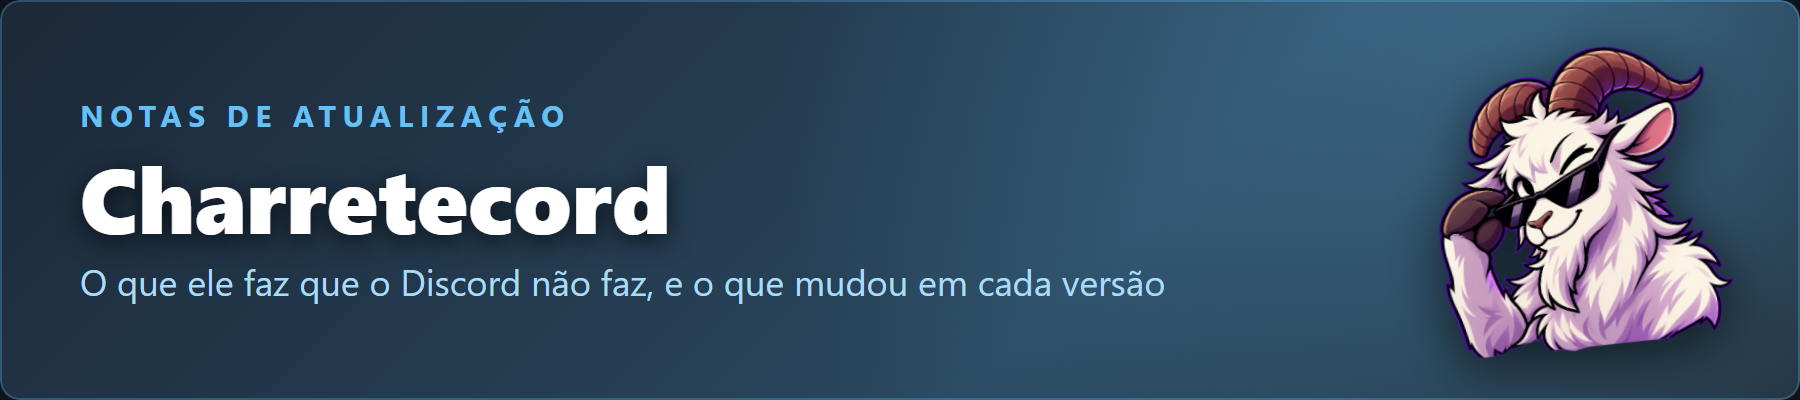
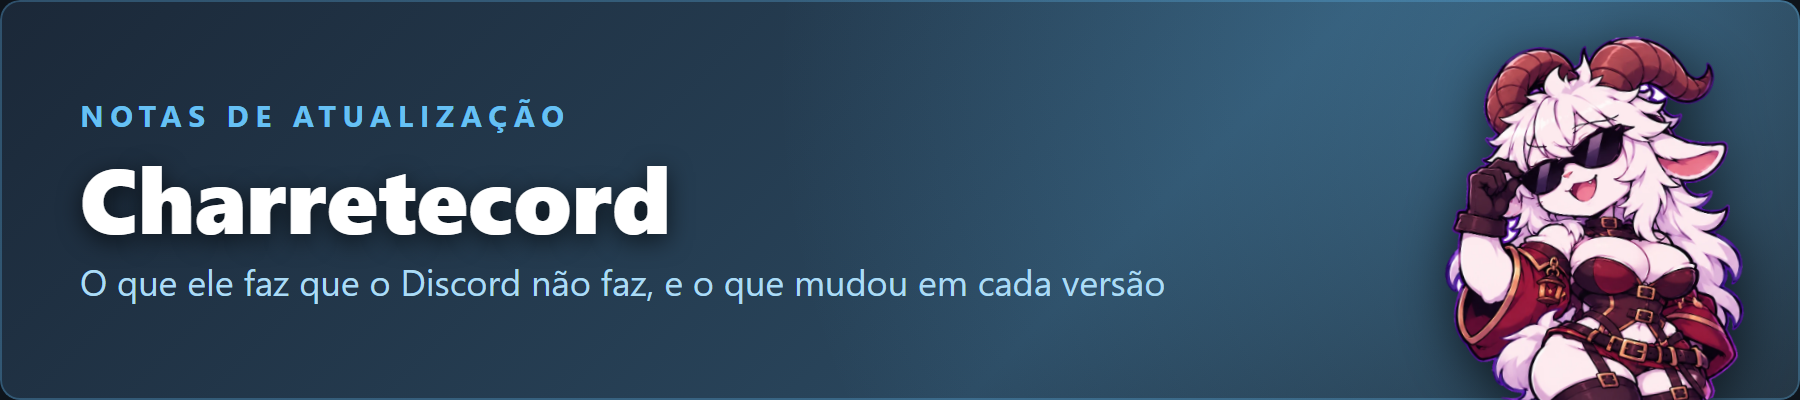
Guia e notas de atualização da 1.7.14: Cha-chan

Changed region(s): [[0.7778, 0.09, 0.9956, 1.0]]

diff --git a/README.md b/README.md
@@ -13,6 +13,10 @@ A voz continua sendo a do Discord. A live (tela, janela ou jogo) e a câmera vã
 - Cada live aceita até 5 espectadores (dá para mudar nas opções).
 - Só quem usa o Charretecord, com a mesma senha da sala, vê as suas lives e a sua câmera.
 
+<p align="center"><img src="guia/chachan/apresentacao.png" width="260" alt="Cha-chan, a mascote do Charretecord, de óculos escuros"></p>
+
+<p align="center"><b>Conheça a Cha-chan</b>, a mascote do Charretecord: um bichinho virtual que mora no app e passeia pela sua área de trabalho. <a href="#15-cha-chan">Saiba mais</a>.</p>
+
 > 📜 **[Novidades do Charretecord](NOVIDADES.md)**: tudo o que ele faz a mais que o Discord, e as notas de cada versão.
 
 ## Sumário
@@ -31,10 +35,13 @@ A voz continua sendo a do Discord. A live (tela, janela ou jogo) e a câmera vã
 12. [Atualizações](#12-atualizações)
 13. [Problemas comuns](#13-problemas-comuns)
 14. [Todas as opções](#14-todas-as-opções)
+15. [Cha-chan](#15-cha-chan)
 
 ---
 
 ## 1. Instalar
+
+<img align="right" src="guia/chachan/acenando.png" width="110" alt="Cha-chan acenando">
 
 Na [página de versões](https://github.com/Augusto-ALN/charretecord-releases/releases/latest), baixe um destes arquivos:
 
@@ -81,6 +88,8 @@ Quando você entra num canal de voz, aparece a linha **Charrete Live** no painel
 
 ## 4. Transmitir
 
+<img align="right" src="guia/chachan/apontando.png" width="110" alt="Cha-chan apontando">
+
 Use o botão de **compartilhar tela** do próprio Discord: o do painel "Voz conectada" ou o da barra da chamada. Ele abre o seletor do Charrete Live:
 
 <img src="guia/seletor.png" width="680" alt="Seletor de fonte com abas Jogos, Telas e Aplicativos e opções de resolução, FPS e áudio">
@@ -113,6 +122,8 @@ Qualquer outro caminho do Discord que iniciaria uma transmissão (o botão de tr
 - O atalho Ctrl + Shift + F9 também encerra.
 
 ## 6. Assistir
+
+<img align="right" src="guia/chachan/coracao.png" width="110" alt="Cha-chan com um coração">
 
 Quem está transmitindo aparece com o selo **AO VIVO** ao lado do nome, na lista do canal de voz. Enquanto você transmite, quem está assistindo a **sua** live aparece com um **olhinho**.
 
@@ -186,7 +197,9 @@ Para quem não usa o Charretecord, o botão continua mandando o pedido normal do
 
 ## 9. Soundboard
 
-Toque os seus próprios sons para quem está na chamada com você. Na chamada, clique no botão da **cabra de óculos**, ao lado do botão de soundboard do Discord, no painel de voz (ou em Configurações → Plugins → CharreteLive → **Abrir a soundboard**).
+<img align="right" src="guia/chachan/musica.png" width="110" alt="Cha-chan ouvindo música">
+
+Toque os seus próprios sons para quem está na chamada com você. Na chamada, clique no botão com o **rosto da Cha-chan**, ao lado do botão de soundboard do Discord, no painel de voz (ou em Configurações → Plugins → CharreteLive → **Abrir a soundboard**).
 
 - O botão abre um painelzinho com os seus sons: **clique num som** para tocar. **Ver todos** abre a janela completa.
 - A Charrete Soundboard tem **só os sons que você enviou**. Na janela completa, clique em **＋ Adicionar som**: mp3, ogg, wav… de até **15 segundos**. Os arquivos ficam **só no seu PC**: ninguém recebe o arquivo, só ouve o som enquanto ele toca.
@@ -219,11 +232,15 @@ Os atalhos funcionam **em qualquer janela**, até com um jogo em tela cheia aber
 
 ## 11. Volume de voz dos amigos
 
+<img align="right" src="guia/chachan/carinho.png" width="110" alt="Cha-chan animada">
+
 O Charretecord vem com o volume de voz liberado até **1000%** (no Discord, o máximo é 200%). Durante a chamada, clique com o botão direito no amigo → **Volume do usuário** e arraste além dos 100%.
 
 Para mudar esse limite, vá em Configurações → Charretecord → Plugins → **VolumeBooster**.
 
 ## 12. Atualizações
+
+<img align="right" src="guia/chachan/comemorando.png" width="110" alt="Cha-chan comemorando">
 
 Clique no **⟳** da barra do topo (no canto direito, depois do botão de ajuda) ou no ⟳ da linha Charrete Live. Também dá para ir em Configurações → Plugins → CharreteLive → **Procurar atualizações**. Quando sai versão nova, aparece uma notificação "Charretecord: nova versão" (clique nela para atualizar), e os dois ⟳ ficam verdes; o da barra do topo também ganha uma bolinha. O Charretecord confere a cada 30 minutos.
 
@@ -240,6 +257,8 @@ Depois de atualizar, abre a janela de **Novidades**: na primeira vez ela mostra 
 > As primeiras versões não tinham o botão ⟳. Se o seu painel do Charrete Live mostra "sinalização" no lugar de "sala XXXX", baixe e instale a versão mais recente pela [página de versões](https://github.com/Augusto-ALN/charretecord-releases/releases/latest). Depois disso, as atualizações chegam sozinhas.
 
 ## 13. Problemas comuns
+
+<img align="right" src="guia/chachan/brava.png" width="110" alt="Cha-chan brava">
 
 | O que acontece | Causa provável | O que fazer |
 |---|---|---|
@@ -283,3 +302,28 @@ Ficam em Configurações → Charretecord → Plugins → **CharreteLive**:
 ---
 
 <sub>As imagens deste guia foram feitas com contas e vídeos de exemplo. Client mods violam os Termos de Serviço do Discord: use por sua conta e risco.</sub>
+
+## 15. Cha-chan
+
+<img align="right" src="guia/chachan/hamburguer.png" width="120" alt="Cha-chan comendo um hambúrguer">
+
+A **Charrete-chan**, ou só **Cha-chan**, é a mascote do Charretecord. Ela aparece ao lado do nome de quem usa o Charretecord, nas notas de atualização e no botão com o rosto dela na **barra do topo**, que abre a janela dela.
+
+**Ela é um bichinho virtual:**
+
+- Para continuar viva, ela precisa de você no Charretecord, logado, **pelo menos 30 minutos por dia**. O dia em que ela chega não conta. Se um dia ficar abaixo disso, ela se vai, e dá para adotar outra.
+- A **barriga** e a **felicidade** caem com o tempo. **Hambúrguer** enche a barriga. **Cerveja** deixa ela feliz (até 3 por dia).
+- O botão dela na barra do topo ganha um aviso quando ela está com fome, carente ou quando ainda faltam minutos no dia (a partir das 20h).
+
+<img align="right" src="guia/chachan/cerveja.png" width="110" alt="Cha-chan tomando cerveja">
+
+**Na área de trabalho:**
+
+- Na janela dela, clique em **Soltar na área de trabalho**. Ela passeia pela tela, sobe em cima das janelas abertas e vai junto quando você arrasta a janela em que ela está.
+- **Clique** nela para fazer carinho. **Arraste** para levar para outro lugar (ou jogar longe). **Botão direito** para dar hambúrguer, cerveja ou guardar. **Dois cliques** abrem a janela dela.
+- Ela fica na frente de tudo, até de jogos e vídeos em tela cheia (modo janela sem bordas). Para tirar da tela, use **Guardar a Cha-chan**.
+- As partes transparentes em volta dela não atrapalham: o clique passa para a janela de baixo.
+
+<img align="right" src="guia/chachan/dormindo.png" width="140" alt="Cha-chan dormindo">
+
+**Em breve:** skins novas para a Cha-chan, liberadas conforme o tempo de vida dela.

diff --git a/NOVIDADES.md b/NOVIDADES.md
@@ -8,18 +8,19 @@ O que o Charretecord tem de diferente do Discord e o histórico de tudo o que mu
 
 <table>
 <tr>
+<td><img src="guia/novidades/chachan.png" width="430" alt="Cha-chan, a mascote"></td>
 <td><img src="guia/novidades/lives.png" width="430" alt="Lives até 4K 60 FPS, sem Nitro"></td>
+</tr>
+<tr>
 <td><img src="guia/novidades/privadas.png" width="430" alt="Lives privadas, de PC para PC"></td>
-</tr>
-<tr>
 <td><img src="guia/novidades/soundboard.png" width="430" alt="Soundboard sem Nitro"></td>
+</tr>
+<tr>
 <td><img src="guia/novidades/voz.png" width="430" alt="Volume de voz até 1000%"></td>
-</tr>
-<tr>
 <td><img src="guia/novidades/amplificar.png" width="430" alt="Amplificar o som de uma live"></td>
-<td><img src="guia/novidades/atalho-live.png" width="430" alt="Live num atalho, sem perguntar"></td>
 </tr>
 <tr>
+<td><img src="guia/novidades/atalho-live.png" width="430" alt="Live num atalho, sem perguntar"></td>
 <td><img src="guia/novidades/icone.png" width="430" alt="Quem usa o Charretecord"></td>
 </tr>
 </table>
@@ -38,6 +39,35 @@ Fontes: [Agência Brasil](https://agenciabrasil.ebc.com.br/radioagencia-nacional
 </table>
 
 ## Notas de atualização
+
+### 1.7.14 · Conheça a Cha-chan
+
+<sub>25/11/2026</sub>
+
+<p align="center"><img src="guia/chachan/apresentacao.png" width="260" alt="Cha-chan"></p>
+
+*O Charretecord ganhou uma mascote nova: a Cha-chan, que mora no app e pode passear pela sua área de trabalho.*
+
+#### Cha-chan chegou
+
+A Charrete-chan, ou só Cha-chan, é a nova cara do Charretecord: de óculos escuros, chifres e sempre na estica. Ela agora aparece ao lado do nome de quem usa o Charretecord, nas notas de atualização e na barra do topo.
+
+Ela também é um bichinho virtual. Para continuar viva, precisa de você no Charretecord pelo menos 30 minutos por dia. Hambúrguer enche a barriga e cerveja deixa ela feliz.
+
+Solte a Cha-chan na área de trabalho e ela passeia pela tela, sobe nas suas janelas e vai junto quando você arrasta uma delas. Dá para fazer carinho, pegar com o mouse e jogar.
+
+Em breve: skins novas conforme o tempo de vida dela. Quanto mais tempo ela viver, mais visuais desbloqueia.
+
+#### Novidades
+
+- Cha-chan, a nova mascote do Charretecord: botão com o rosto dela na barra do topo abre a janela dela, com barriga, felicidade e os minutos do dia.
+- Bichinho virtual: ela precisa de pelo menos 30 minutos por dia com você no Charretecord para continuar viva. Hambúrguer enche a barriga e cerveja (até 3 por dia) deixa ela feliz.
+- Cha-chan na área de trabalho: solta, ela anda pela tela, sobe nas janelas abertas e acompanha a janela em que está. Clique para fazer carinho, arraste para levar a outro lugar e use o botão direito para alimentar. Ela continua na tela até por cima de jogos e vídeos em tela cheia (modo janela sem bordas).
+- Em breve: skins para a Cha-chan conforme o tempo de vida dela.
+
+#### Melhorias
+
+- O ícone ao lado do nome de quem usa o Charretecord agora é a Cha-chan.
 
 ### 1.7.13 · Áudio da live por aplicativo
 
